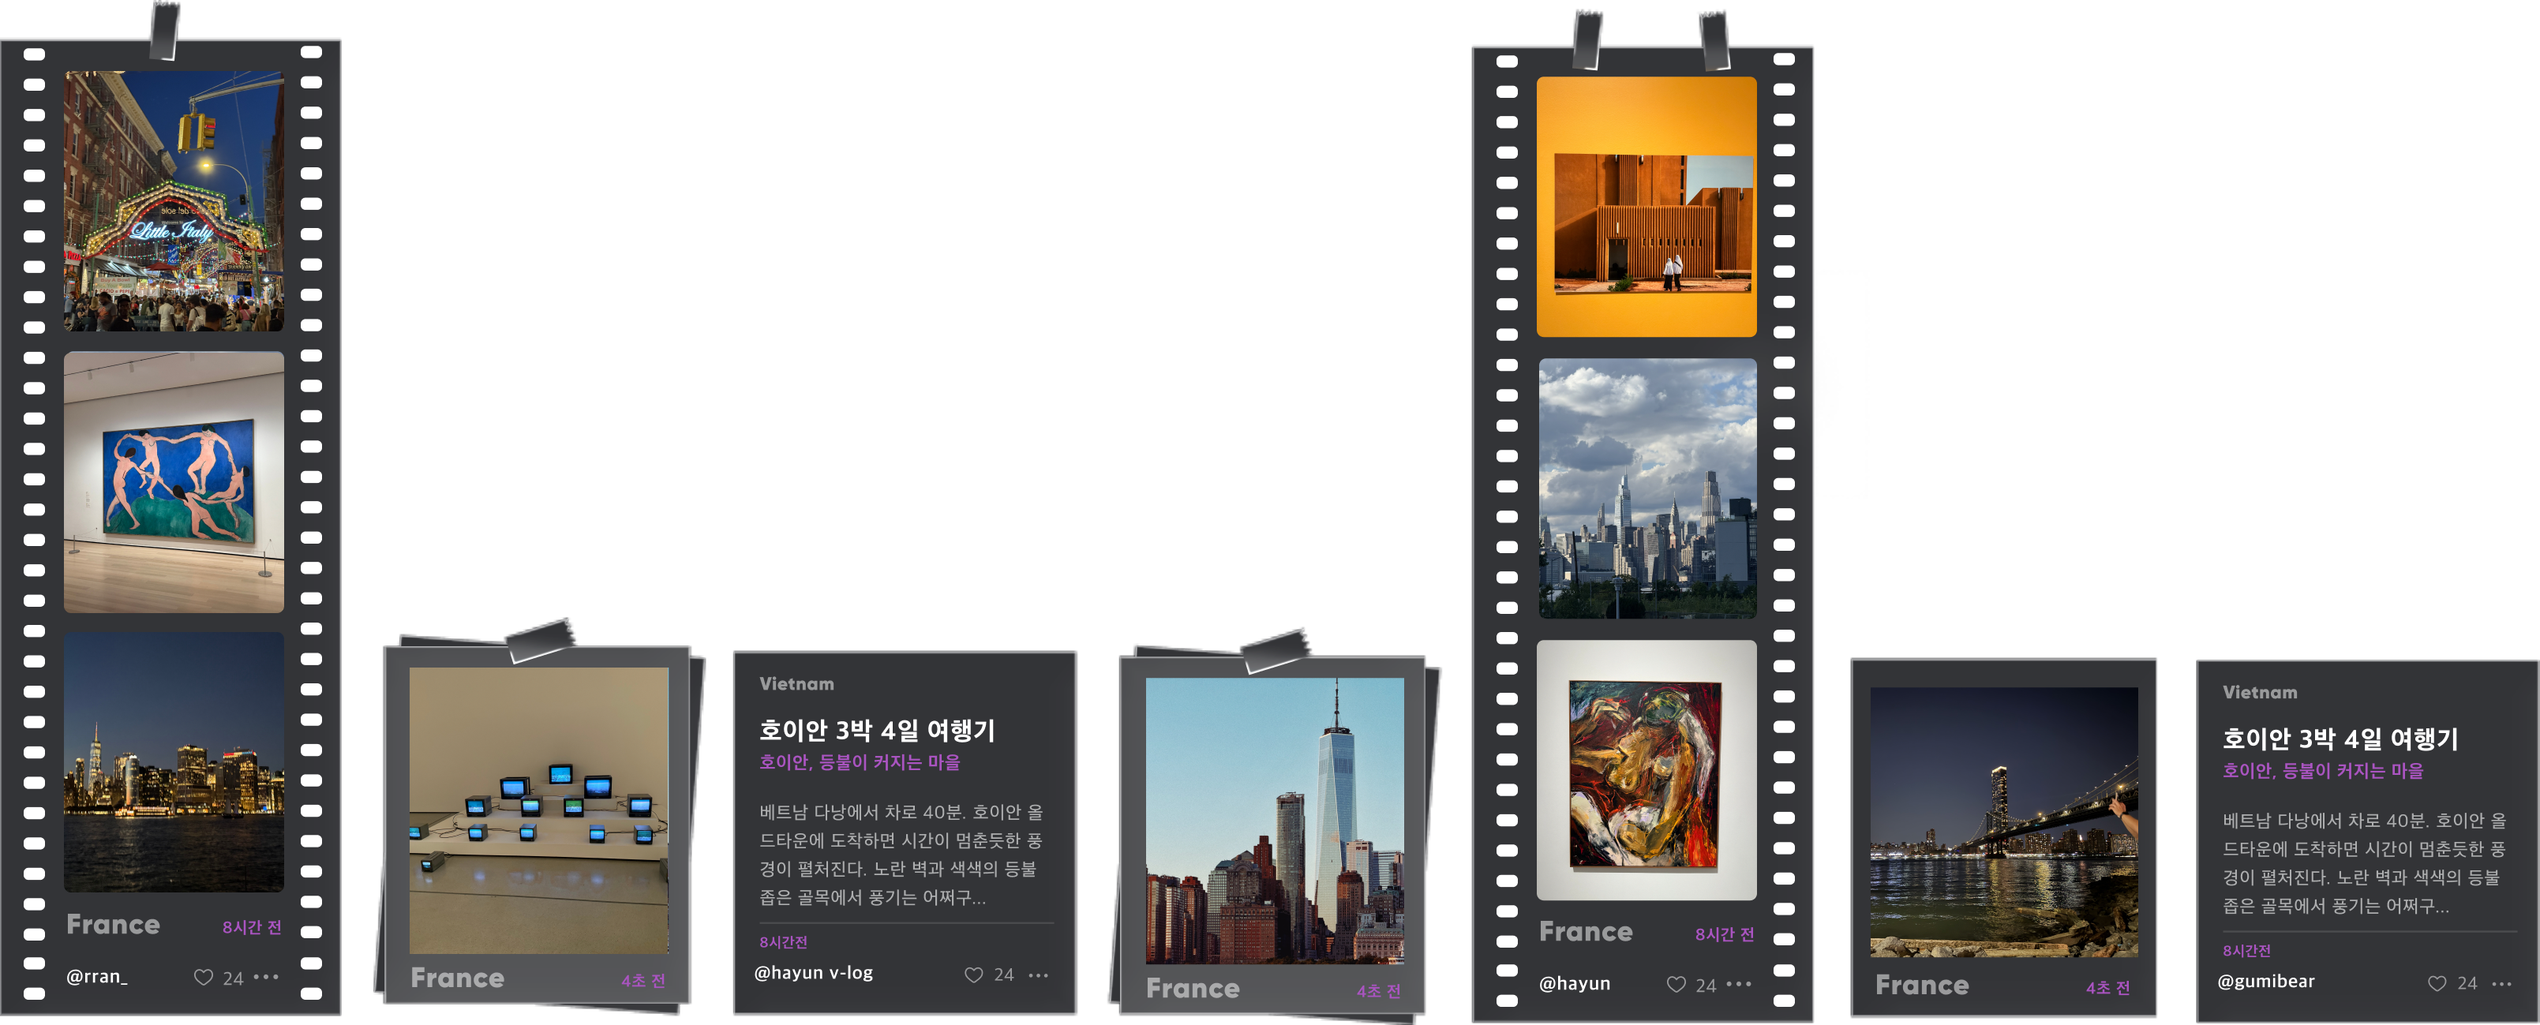
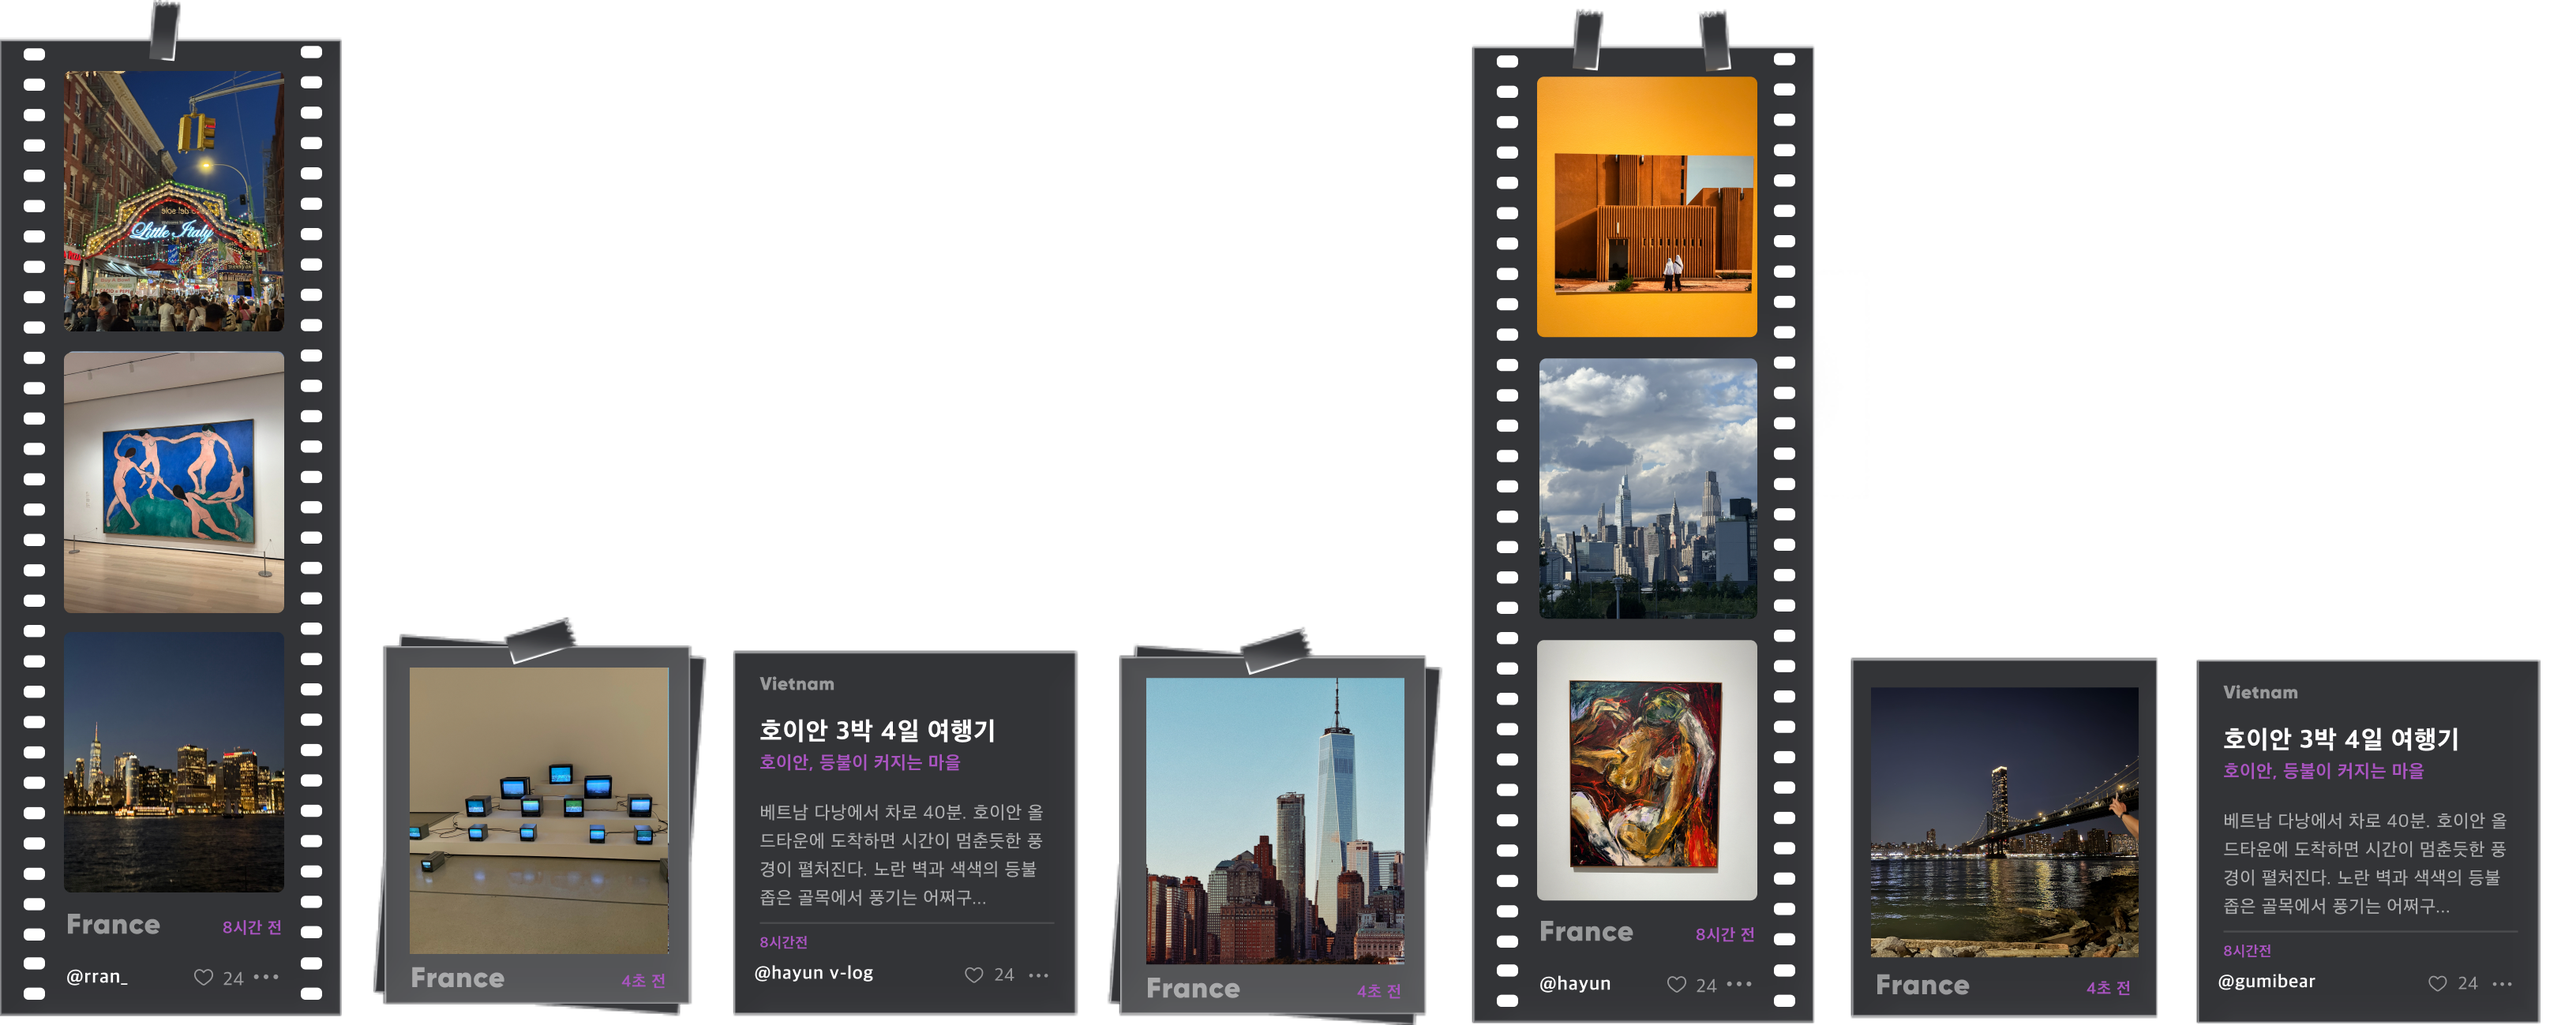
fix(intro): 온보딩 2단계 마퀴 이음매 간격 15단위 확보
밴드 콜라주는 프랑스 스트립이 맨 앞, 베트남 저널이 맨 끝이라 그림이
캔버스를 꽉 채우고 있었다(여백 0). 같은 밴드 두 장을 이어붙여 무한
마퀴를 만드는 구조라, 이음매에서만 끝과 시작이 딱 붙어 다른 간격
(11~16단위)과 어긋나 보였다.

PNG 우측에 45px(3x = 15단위) 투명 여백을 덧대고 BAND_W도 1073→1088로
같이 늘렸다. 두 값은 반드시 함께 움직인다 — 어긋나면 마퀴 리셋 지점에
이음새가 드러난다. BAND_LEFT는 그대로: 두 번째 장의 원점이
(BAND_LEFT - BAND_W) + BAND_W = BAND_LEFT 라 BAND_W와 무관해
시작 구도가 시안 그대로 유지된다.

Changed region(s): [[0.0, 0.0, 1.0, 1.0], [0.1865, 0.6159, 0.2175, 0.6467], [0.0311, 0.893, 0.0622, 0.9238]]

diff --git a/src/screens/introVisuals.tsx b/src/screens/introVisuals.tsx
@@ -133,13 +133,21 @@ export function IntroVisual1({ active = true }: { active?: boolean }) {
 }
 
 // ── 2페이지: 여행 기록 카드 콜라주 밴드 (시안 iPhone 17 - 65 (1)) ──
-// 밴드 PNG(1073×433)는 시안(402 기준) 좌표와 1:1 스케일. 시안 크롭은 밴드의 두 번째
+// 밴드 PNG(그림 1073×433)는 시안(402 기준) 좌표와 1:1 스케일. 시안 크롭은 밴드의 두 번째
 // 필름 스트립(PNG x≈620)이 화면 x200에 오는 위치 — 이때 좌측 저널(-112)·좌측 폴라로이드(51)·
 // 우측 폴라로이드(360)가 시안과 일치한다. 필름 스트립 상단 y113에서 테이프 여유(≈21)를 뺀
 // y92가 밴드 상단. 같은 밴드 두 장을 이어붙여 한 장 폭만큼 왼쪽→오른쪽 등속 이동 후 리셋
 // = 이음새 없는 무한 마퀴.
+//
+// BAND_W(1088) = 그림 폭 1073 + 이음매 여백 15. 시안 원본은 프랑스 스트립이 맨 앞,
+// 베트남 저널이 맨 끝이라 그림이 캔버스를 꽉 채운다(여백 0). 그대로 두 장을 이어붙이면
+// 이음매에서만 끝(베트남)과 시작(프랑스)이 딱 붙어 다른 간격들과 어긋나 보인다.
+// 그래서 PNG 우측에 45px(3x = 15단위) 투명 여백을 덧대고 BAND_W도 같이 15 늘렸다.
+// 두 값은 반드시 함께 움직인다 — 어긋나면 마퀴 리셋 지점에 이음새가 드러난다.
+// (BAND_LEFT는 손대지 않는다. 두 번째 장의 원점은 (BAND_LEFT - BAND_W) + BAND_W = BAND_LEFT
+//  로 BAND_W와 무관해, 폭을 늘려도 시작 구도가 그대로 유지된다.)
 const INTRO2_BAND = require('../../assets/intro2-band.png');
-const BAND_W = 1073;
+const BAND_W = 1088;
 const BAND_H = 433;
 const BAND_LEFT = -420; // 시안 크롭 기준 초기 위치(시안 단위)
 const BAND_TOP = 92;
